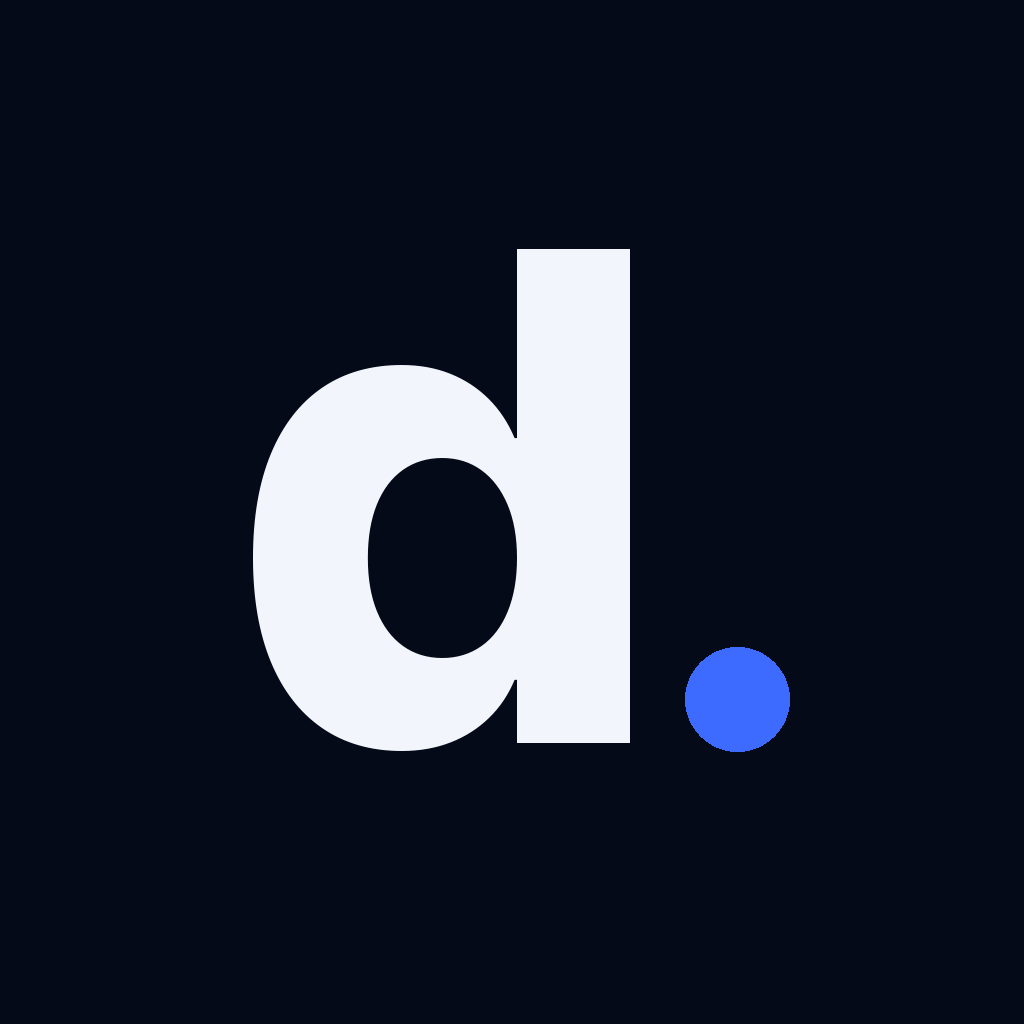
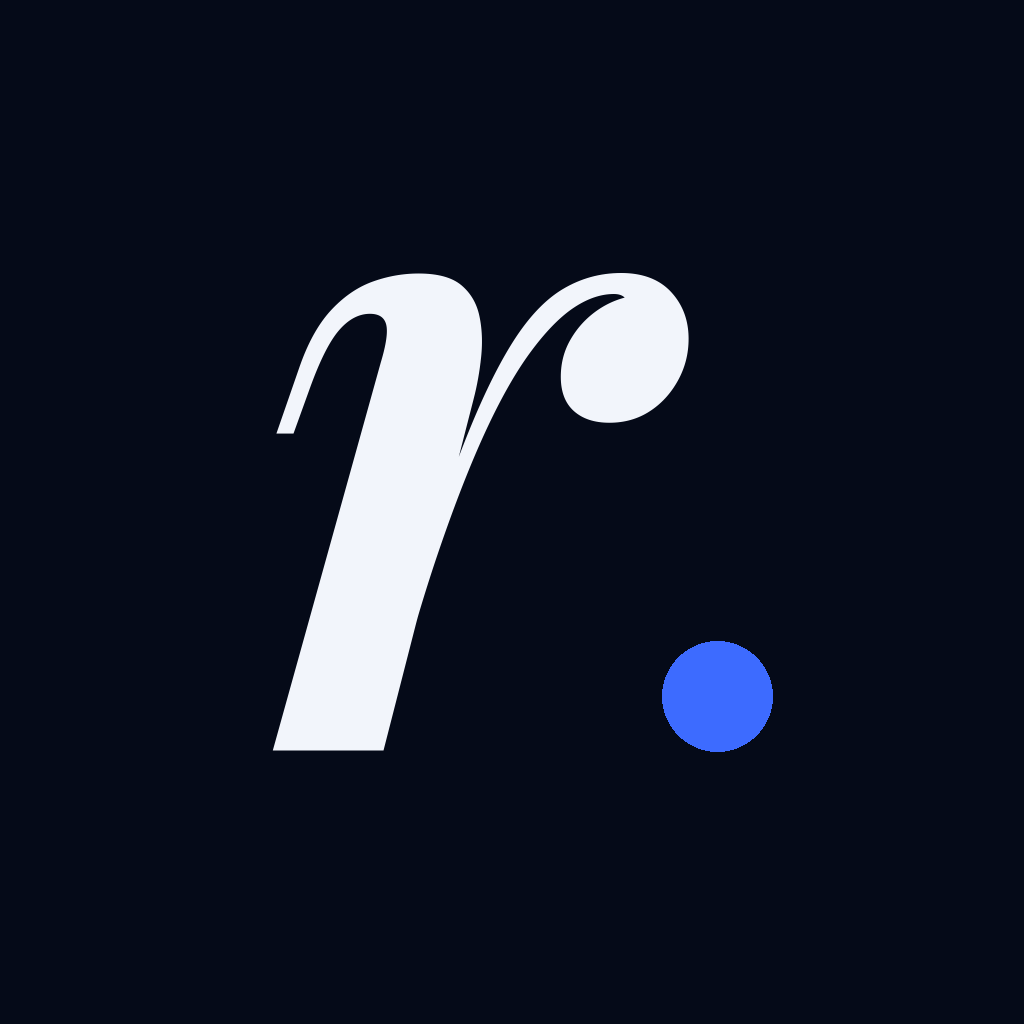
Sürüm 0.21: isim rast, italik r. logosu ve simgesi

Changed region(s): [[0.25, 0.2188, 0.7812, 0.75]]

diff --git a/screens/WelcomeScreen.tsx b/screens/WelcomeScreen.tsx
@@ -1,10 +1,10 @@
 import { useEffect, useRef } from 'react';
 import { ActivityIndicator, Animated, Easing, Pressable, StyleSheet, Text, View } from 'react-native';
-import Logo from '../components/Logo';
+import { Mark, Wordmark } from '../components/Brand';
 import { tap } from '../lib/haptics';
 import AnimatedButton from '../components/AnimatedButton';
 import { useInsets } from '../lib/layout';
-import { APP_VERSION, BRAND, NAVY, useColors, useStyles } from '../lib/theme';
+import { APP_VERSION, useColors, useStyles } from '../lib/theme';
 import type { Palette } from '../lib/theme';
 
 // Instagram / X girişi gibi: ortada logo, altta iki net buton. Başka hiçbir şey yok.
@@ -51,12 +51,10 @@ export default function WelcomeScreen({ onStart, onLogin, onLegal, onQuick, quic
             transform: [{ scale: logo.interpolate({ inputRange: [0, 1], outputRange: [0.9, 1] }) }],
           }}
         >
-          <View style={styles.mark}>
-            <Logo size={74} />
-          </View>
-          {BRAND ? <Text style={styles.brand}>{BRAND}</Text> : null}
+          <Mark size={96} />
+          <Wordmark size={46} color={c.text} style={{ marginTop: 20 }} />
         </Animated.View>
-        <Animated.Text style={[styles.tagline, !BRAND && styles.headline, tag]}>Aynı kafedeki insanlarla tanış.</Animated.Text>
+        <Animated.Text style={[styles.tagline, tag]}>Aynı kafedeki insanlarla tanış.</Animated.Text>
       </View>
 
       <View style={[styles.bottom, { paddingBottom: insets.bottom + 16 }]}>
@@ -101,10 +99,7 @@ const makeStyles = (c: Palette) =>
   StyleSheet.create({
     root: { flex: 1, backgroundColor: c.bg },
     center: { flex: 1, alignItems: 'center', justifyContent: 'center', paddingBottom: 40 },
-    mark: { width: 104, height: 104, borderRadius: 30, backgroundColor: NAVY, alignItems: 'center', justifyContent: 'center' },
-    brand: { color: c.text, fontSize: 44, fontWeight: '800', letterSpacing: -1.2, marginTop: 22 },
     tagline: { color: c.muted, fontSize: 16, marginTop: 10 },
-    headline: { color: c.text, fontSize: 22, fontWeight: '700', letterSpacing: -0.4, marginTop: 26 },
     bottom: { paddingHorizontal: 28 },
     quick: { height: 40, alignItems: 'center', justifyContent: 'center', marginTop: 10 },
     quickText: { color: c.accentLight, fontSize: 15, fontWeight: '700' },

diff --git a/App.tsx b/App.tsx
@@ -2,6 +2,8 @@ import { useCallback, useEffect, useMemo, useRef, useState } from 'react';
 import { ActivityIndicator, Alert, AppState, Modal, Pressable, StyleSheet, Text, View } from 'react-native';
 import AsyncStorage from '@react-native-async-storage/async-storage';
 import { StatusBar } from 'expo-status-bar';
+import { useFonts } from 'expo-font';
+import { PlayfairDisplay_600SemiBold_Italic } from '@expo-google-fonts/playfair-display/600SemiBold_Italic';
 import type { Session } from '@supabase/supabase-js';
 import AnimatedButton from './components/AnimatedButton';
 import Backdrop from './components/Backdrop';
@@ -38,7 +40,7 @@ import {
 import type { NotifData, PermissionState } from './lib/notifications';
 import { respondRequest } from './lib/requests';
 import { supabase, supabaseConfigured } from './lib/supabase';
-import { useColors, useStyles } from './lib/theme';
+import { NAVY, useColors, useStyles } from './lib/theme';
 import type { Palette } from './lib/theme';
 import { PROFILE_COLUMNS, PROFILE_COLUMNS_BASE } from './lib/types';
 import type { ActiveCheckin, ChatHead, Connection, Profile } from './lib/types';
@@ -104,6 +106,9 @@ function LocationHeartbeat({ active, onEnded }: { active: ActiveCheckin | null; 
 }
 
 export default function App() {
+  // Marka yazı tipi (açılış animasyonu ve logo) yüklenmeden ilk kare çizilmez; yerel dosya, anında yüklenir.
+  const [fontsReady, fontError] = useFonts({ PlayfairDisplay_600SemiBold_Italic });
+  if (!fontsReady && !fontError) return <View style={{ flex: 1, backgroundColor: NAVY }} />;
   return (
     <ErrorBoundary>
       <LocationProvider>
@@ -764,7 +769,8 @@ function AppShell() {
     <View style={styles.root}>
       {revealed ? screen : null}
       {revealed ? <OfflineBanner /> : null}
-      <SecurityLayer active={Boolean(session && profile?.birth_year)} />
+      {/* Kilit, açılış animasyonu bitip uygulama göründüğü anda devreye girer */}
+      <SecurityLayer active={revealed && Boolean(session && profile?.birth_year)} />
       <LegalSheet doc={legal} onClose={() => setLegal(null)} />
       {intro ? <SplashIntro onReveal={() => setRevealed(true)} onDone={() => setIntro(false)} /> : null}
     </View>

diff --git a/components/SecurityLayer.tsx b/components/SecurityLayer.tsx
@@ -3,6 +3,7 @@ import { AppState, Pressable, StyleSheet, Text, View } from 'react-native';
 import { Ionicons } from '@expo/vector-icons';
 import * as ScreenCapture from 'expo-screen-capture';
 import { LOCK_AFTER_MS, isAuthenticating, lockEnabled, lockMethodName, onLockChange, unlock } from '../lib/security/appLock';
+import { Wordmark } from './Brand';
 import { useInsets } from '../lib/layout';
 import { NAVY } from '../lib/theme';
 
@@ -75,7 +76,7 @@ export default function SecurityLayer({ active }: { active: boolean }) {
           <View style={styles.lockIcon}>
             <Ionicons name="lock-closed" size={28} color="#fff" />
           </View>
-          <Text style={styles.brand}>denk</Text>
+          <Wordmark size={46} />
           <Text style={styles.text}>Uygulama kilitli</Text>
         </View>
         <Pressable style={styles.btn} onPress={tryUnlock}>
@@ -89,7 +90,7 @@ export default function SecurityLayer({ active }: { active: boolean }) {
     return (
       <View style={styles.cover} pointerEvents="none">
         <View style={styles.center}>
-          <Text style={styles.brand}>denk</Text>
+          <Wordmark size={46} />
         </View>
       </View>
     );
@@ -101,7 +102,6 @@ const styles = StyleSheet.create({
   cover: { position: 'absolute', top: 0, left: 0, right: 0, bottom: 0, zIndex: 200, elevation: 200, backgroundColor: NAVY, alignItems: 'center', justifyContent: 'flex-end' },
   center: { position: 'absolute', top: 0, bottom: 0, left: 0, right: 0, alignItems: 'center', justifyContent: 'center' },
   lockIcon: { width: 64, height: 64, borderRadius: 22, backgroundColor: '#1A3A8F', alignItems: 'center', justifyContent: 'center', marginBottom: 18 },
-  brand: { color: '#F2F5FB', fontSize: 40, fontWeight: '800', letterSpacing: -1.4 },
   text: { color: '#8A97B6', fontSize: 15, marginTop: 8 },
   btn: { flexDirection: 'row', alignItems: 'center', gap: 8, backgroundColor: '#F2F5FB', borderRadius: 16, paddingVertical: 15, paddingHorizontal: 26 },
   btnText: { color: NAVY, fontSize: 16, fontWeight: '800' },

diff --git a/components/SplashIntro.tsx b/components/SplashIntro.tsx
@@ -1,12 +1,12 @@
 import { useEffect, useRef } from 'react';
 import { Animated, Easing, StyleSheet, View } from 'react-native';
-import { NAVY } from '../lib/theme';
+import { BRAND_FONT, NAVY } from '../lib/theme';
 
-// Uygulama açılışı: derin lacivert zeminde sadece "denk" yazısı. Harfler sırayla aşağıdan yükselip
-// netleşir, "e" ile "n" arasında iki nokta birbirine yaklaşıp buluşur ("denk gelmek"), ardından
+// Uygulama açılışı: derin lacivert zeminde sadece "rast" yazısı (italik marka yazı tipi). Harfler sırayla
+// aşağıdan yükselip netleşir, altta iki nokta birbirine yaklaşıp buluşur ("rastlamak"), ardından
 // yazı hafifçe büyüyüp kaybolurken uygulama alttan belirir.
 
-const WORD = ['d', 'e', 'n', 'k'];
+const WORD = ['r', 'a', 's', 't'];
 
 export default function SplashIntro({ onReveal, onDone }: { onReveal: () => void; onDone: () => void }) {
   const letters = useRef(WORD.map(() => new Animated.Value(0))).current;
@@ -117,9 +117,9 @@ export default function SplashIntro({ onReveal, onDone }: { onReveal: () => void
 const styles = StyleSheet.create({
   root: { alignItems: 'center', justifyContent: 'center', zIndex: 100, elevation: 100, backgroundColor: NAVY },
   row: { flexDirection: 'row', alignItems: 'flex-end' },
-  letter: { color: '#F2F5FB', fontSize: 64, fontWeight: '800', letterSpacing: -2.4, marginHorizontal: 0.5 },
+  letter: { color: '#F2F5FB', fontSize: 72, fontFamily: BRAND_FONT, includeFontPadding: false },
   dots: { height: 20, width: 120, alignItems: 'center', justifyContent: 'center', marginTop: 10 },
   dot: { position: 'absolute', width: 9, height: 9, borderRadius: 4.5, backgroundColor: '#F2F5FB' },
-  dotAccent: { backgroundColor: '#A9BEFF' },
-  halo: { position: 'absolute', width: 18, height: 18, borderRadius: 9, borderWidth: 1.5, borderColor: '#A9BEFF' },
+  dotAccent: { backgroundColor: '#3D6BFF' },
+  halo: { position: 'absolute', width: 18, height: 18, borderRadius: 9, borderWidth: 1.5, borderColor: '#3D6BFF' },
 });

diff --git a/lib/legal.ts b/lib/legal.ts
@@ -25,7 +25,7 @@ export const AYDINLATMA: LegalDoc = {
   title: 'KVKK Aydınlatma Metni',
   updated: 'Ekim 2026',
   intro:
-    '6698 sayılı Kişisel Verilerin Korunması Kanunu (KVKK) kapsamında, denk uygulamasını kullanırken hangi verilerini neden işlediğimizi ve bu konudaki haklarını aşağıda bulabilirsin.',
+    '6698 sayılı Kişisel Verilerin Korunması Kanunu (KVKK) kapsamında, rast uygulamasını kullanırken hangi verilerini neden işlediğimizi ve bu konudaki haklarını aşağıda bulabilirsin.',
   sections: [
     {
       h: 'Veri sorumlusu',
@@ -94,7 +94,7 @@ export const KOSULLAR: LegalDoc = {
   key: 'kosullar',
   title: 'Kullanım Koşulları',
   updated: 'Ekim 2026',
-  intro: 'denk’i kullanarak aşağıdaki koşulları kabul etmiş olursun. Kısa tuttuk, lütfen oku.',
+  intro: 'rast’ı kullanarak aşağıdaki koşulları kabul etmiş olursun. Kısa tuttuk, lütfen oku.',
   sections: [
     {
       h: 'Kimler kullanabilir',
@@ -131,7 +131,7 @@ export const KOSULLAR: LegalDoc = {
     {
       h: 'Sorumluluk',
       p: [
-        'denk, kullanıcıları buluşturan bir araçtır. Kullanıcıların birbirine karşı davranışlarından ve uygulama dışındaki görüşmelerden kullanıcılar sorumludur. Hizmeti kesintisiz sunmaya çalışırız ancak bakım ve teknik sorunlar nedeniyle kesinti olabilir.',
+        'rast, kullanıcıları buluşturan bir araçtır. Kullanıcıların birbirine karşı davranışlarından ve uygulama dışındaki görüşmelerden kullanıcılar sorumludur. Hizmeti kesintisiz sunmaya çalışırız ancak bakım ve teknik sorunlar nedeniyle kesinti olabilir.',
         'Koşullar değişirse uygulama içinde haber veririz; değişiklikten sonra kullanmaya devam etmen yeni koşulları kabul ettiğin anlamına gelir.',
       ],
     },

diff --git a/components/Brand.tsx b/components/Brand.tsx
@@ -1,0 +1,30 @@
+import { StyleSheet, Text, View } from 'react-native';
+import type { StyleProp, TextStyle, ViewStyle } from 'react-native';
+import { ACCENT_DOT, BRAND, BRAND_FONT, NAVY } from '../lib/theme';
+
+// Marka: "rast" yazısı ve "r." işareti. Yazı tipi Playfair Display (italik, SIL OFL lisanslı), nokta mavi vurgu.
+
+export function Wordmark({ size = 28, color = '#F2F5FB', style }: { size?: number; color?: string; style?: StyleProp<TextStyle> }) {
+  return (
+    <Text style={[{ fontFamily: BRAND_FONT, fontSize: size, color, letterSpacing: -size * 0.01, includeFontPadding: false }, style]}>
+      {BRAND}
+      <Text style={{ color: ACCENT_DOT }}>.</Text>
+    </Text>
+  );
+}
+
+// Uygulama simgesiyle aynı: lacivert yuvarlatılmış kare içinde "r."
+export function Mark({ size = 96, style }: { size?: number; style?: StyleProp<ViewStyle> }) {
+  const font = size * 0.84;
+  return (
+    <View style={[styles.tile, { width: size, height: size, borderRadius: size * 0.225 }, style]}>
+      <Text style={{ fontFamily: BRAND_FONT, fontSize: font, lineHeight: font * 1.25, color: '#F2F5FB', includeFontPadding: false }}>
+        r<Text style={{ color: ACCENT_DOT }}>.</Text>
+      </Text>
+    </View>
+  );
+}
+
+const styles = StyleSheet.create({
+  tile: { backgroundColor: NAVY, alignItems: 'center', justifyContent: 'center', overflow: 'hidden' },
+});

diff --git a/screens/IntroScreen.tsx b/screens/IntroScreen.tsx
@@ -4,6 +4,7 @@ import { Animated, Easing, Pressable, StyleSheet, Text, useWindowDimensions, Vie
 import type { NativeScrollEvent, NativeSyntheticEvent } from 'react-native';
 import { Ionicons } from '@expo/vector-icons';
 import AnimatedButton from '../components/AnimatedButton';
+import { Wordmark } from '../components/Brand';
 import { tap } from '../lib/haptics';
 import { useInsets } from '../lib/layout';
 import { useColors, useStyles } from '../lib/theme';
@@ -17,7 +18,7 @@ const SLIDES: Slide[] = [
   {
     key: 'meet',
     title: 'Aynı kafedekilerle tanış',
-    body: 'denk, aynı anda aynı kafede oturan insanları buluşturur. Seni sadece o an orada olanlar görür.',
+    body: 'rast, aynı anda aynı kafede oturan insanları buluşturur. Seni sadece o an orada olanlar görür.',
   },
   {
     key: 'checkin',
@@ -236,7 +237,7 @@ export default function IntroScreen({ onDone }: { onDone: () => void }) {
   return (
     <View style={[styles.root, { paddingTop: insets.top }]}>
       <View style={styles.top}>
-        <Text style={styles.brand}>denk</Text>
+        <Wordmark size={26} color={c.text} />
         {!last ? (
           <Pressable
             hitSlop={12}

diff --git a/lib/theme.ts b/lib/theme.ts
@@ -2,11 +2,14 @@ import { useMemo, useSyncExternalStore } from 'react';
 import { Appearance, useColorScheme } from 'react-native';
 import AsyncStorage from '@react-native-async-storage/async-storage';
 
-// Uygulamanın adı henüz belli değil; karar verilince buraya yazılır, isim gösteren her yer buradan okur.
-export const BRAND: string | null = null;
+// Uygulamanın adı; isim gösteren her yer buradan okur.
+export const BRAND = 'rast';
+// Marka yazı tipi (App.tsx'te yüklenir) ve noktanın rengi.
+export const BRAND_FONT = 'PlayfairDisplay_600SemiBold_Italic';
+export const ACCENT_DOT = '#3D6BFF';
 
 // Ekranlarda gösterilen sürüm (giriş ve profil ekranı buradan okur).
-export const APP_VERSION = '0.20';
+export const APP_VERSION = '0.21';
 
 type Grad2 = readonly [string, string];
 type Grad3 = readonly [string, string, string];

diff --git a/screens/ProfileScreen.tsx b/screens/ProfileScreen.tsx
@@ -387,7 +387,7 @@ export default function ProfileScreen({ profile, email, onSaved, onSignOut, phon
           />
         </Group>
 
-        <Text style={styles.footer}>{BRAND ? `${BRAND} · ` : ''}Sürüm {APP_VERSION}</Text>
+        <Text style={styles.footer}>{BRAND} · Sürüm {APP_VERSION}</Text>
       </Animated.ScrollView>
 
       {/* Kaydırınca beliren sabit üst çubuk: içerik saatin/çentiğin altına girmez */}

diff --git a/lib/security/appLock.ts b/lib/security/appLock.ts
@@ -48,7 +48,7 @@ export async function lockEnabled(): Promise<boolean> {
   }
 }
 
-export async function unlock(reason = 'denk’i açmak için doğrula'): Promise<boolean> {
+export async function unlock(reason = 'rast’ı açmak için doğrula'): Promise<boolean> {
   authenticating = true;
   try {
     const r = await LocalAuthentication.authenticateAsync({
